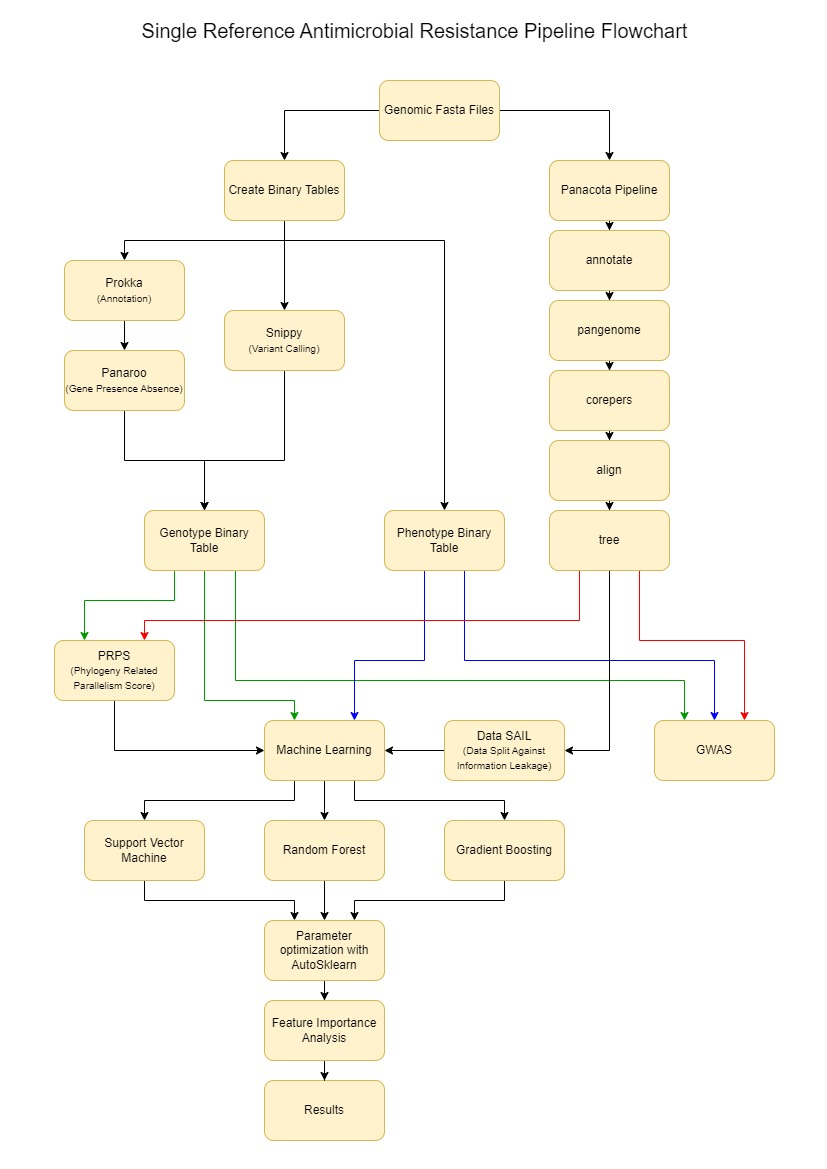
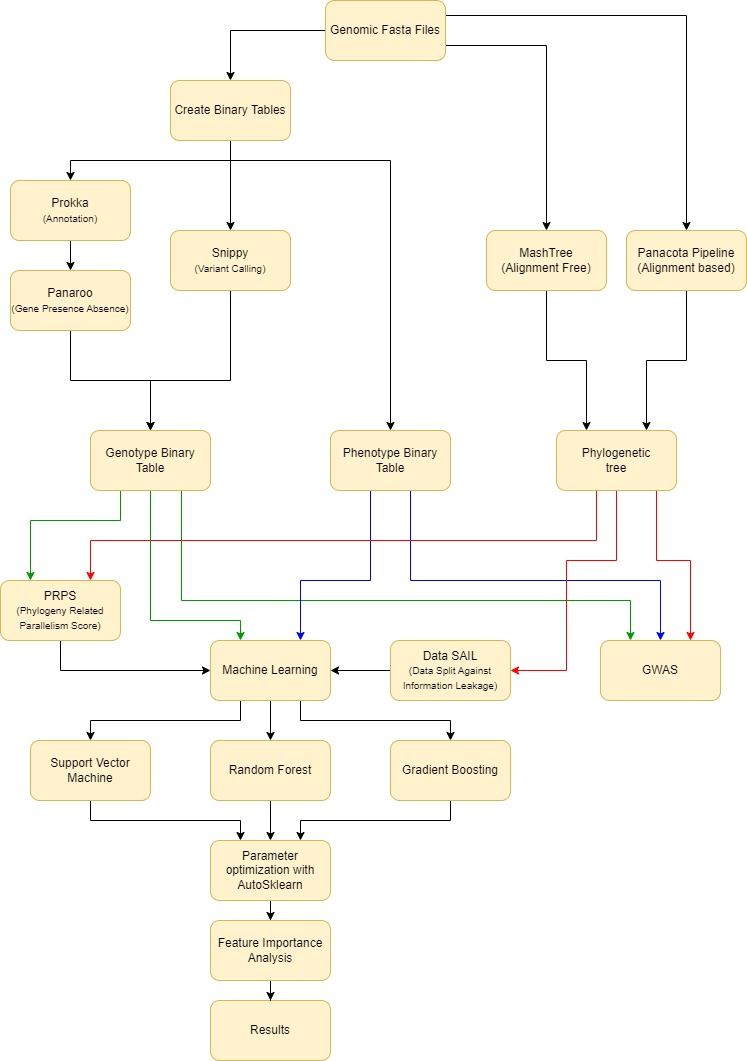
flowchart and readme updated

diff --git a/README.md b/README.md
@@ -106,9 +106,24 @@ Basic usage:
 ./scripts/sr_pipeline.py binary_tables_threshold -i example/example_output/binary_mutation_table.tsv -o example/example_output/ 
 ```
 
+## Phylogenetic Tree
+
+Runs Phylogeny pipeline to create phylogenetic tree. (Alignment free)
+
+- Input, `-i`: Text file that contains path of each strain per line. It can be found in create_binary_tables output path as `strains.txt`
+
+- Output, `-o`: Output folder path, where the output will be stored. If path exist, `--overwrite` option can be used to overwrite existing output.
+
+- Random names dictionary path, `--random_names_dict`: Random names text file path. If not provided, strain's original names will be used for phylogenetic tree
+
+Basic usage:
+```bash
+./scripts/sr_pipeline.py phylogenetic_tree -i example/example_output/strains.txt -o example/example_output/ --random_names_dict example/example_output/random_names.txt 
+```
+
 ## Panacota
 
-Runs PanACoTA pipeline to create phylogenetic tree.
+Runs PanACoTA pipeline to create phylogenetic tree. (Alignment based)
 
 - Input, `-i`: Text file that contains path of each strain per line. It can be found in create_binary_tables output path as `strains.txt`
 
@@ -129,13 +144,13 @@ Runs GWAS analysis to detect important mutations in the data.
 
 - Phenotype, `-p`:  Binary phenotype table path,  can be found in create_binary_tables output path as `phenotype_table.tsv` if `--create_phenotype_from_folder` is used. Can also created manually and used.
 
-- Tree, `-t` : Phylogenetic tree path, can be found in panacota output path as `phylogenetic_tree.newick`
+- Tree, `-t` : Phylogenetic tree path, can be found in panacota output path as `phylogenetic_tree.newick` or phylogeny output path as `phylogenetic_tree.tree`
 
 - Output, `-o`: Output folder path, where the output will be stored. If path exist, `--overwrite` option can be used to overwrite existing output.
 
 Basic usage:
 ```bash
-./scripts/sr_pipeline.py gwas -i example/example_output/binary_mutation_table_with_gene_presence_absence.tsv -p example/example_output/phenotype_table.tsv -t example/example_output/phylogenetic_tree.newick -o example_output/
+./scripts/sr_pipeline.py gwas -i example/example_output/binary_mutation_table_with_gene_presence_absence.tsv -p example/example_output/phenotype_table.tsv -t example/example_output/phylogeny/phylogenetic_tree.tree -o example_output/
 ```
 
 ## PRPS
@@ -144,13 +159,13 @@ Runs PRPS (Phylogeny-Related Parallelism Score) to detect the mutations are more
 
 - Input, `-i`:  Binary mutation table path that is created via create_binary_tables command, can be found in create_binary_tables output path as `binary_mutation_table.tsv` or if threshold applied, can be found in binary_table_threshold output path as `binary_mutation_table_threshold_*_percent.tsv`
 
-- Tree, `-t` : Phylogenetic tree path, can be found in panacota output path as `phylogenetic_tree.newick`
+- Tree, `-t` : Phylogenetic tree path, can be found in panacota output path as `phylogenetic_tree.newick` or phylogeny output path as `phylogenetic_tree.tree`
 
 - Output, `-o`: Output folder path, where the output will be stored. If path exist, `--overwrite` option can be used to overwrite existing output.
 
 Basic usage:
 ```bash
-./scripts/sr_pipeline.py prps -i example/example_output/binary_mutation_table.tsv -t example/example_output/phylogenetic_tree.newick -o example_output/
+./scripts/sr_pipeline.py prps -i example/example_output/binary_mutation_table.tsv -t example/example_output/phylogeny/phylogenetic_tree.tree -o example_output/
 ```
 
 ## DataSAIL
@@ -159,13 +174,13 @@ Splits data into training, validation and test sets against information leakage 
 
 - Input, `-i`:  Binary mutation table path that is created via create_binary_tables command, can be found in create_binary_tables output path as `binary_mutation_table.tsv` or if threshold applied, can be found in binary_table_threshold output path as `binary_mutation_table_threshold_*_percent.tsv`
 
-- Tree, `-t` : Phylogenetic tree path, can be found in panacota output path as `phylogenetic_tree.newick`
+- Tree, `-t` : Phylogenetic tree path, can be found in panacota output path as `phylogenetic_tree.newick` or phylogeny output path as `phylogenetic_tree.tree`
 
 - Output, `-o`: Output folder path, where the output will be stored. If path exist, `--overwrite` option can be used to overwrite existing output.
 
 Basic usage:
 ```bash
-./scripts/sr_pipeline.py datasail -i example/example_output/binary_mutation_table.tsv -t example/example_output/phylogenetic_tree.newick -o example_output/
+./scripts/sr_pipeline.py datasail -i example/example_output/binary_mutation_table.tsv -t example/example_output/phylogeny/phylogenetic_tree.tree -o example_output/
 ```
 
 ## ML
